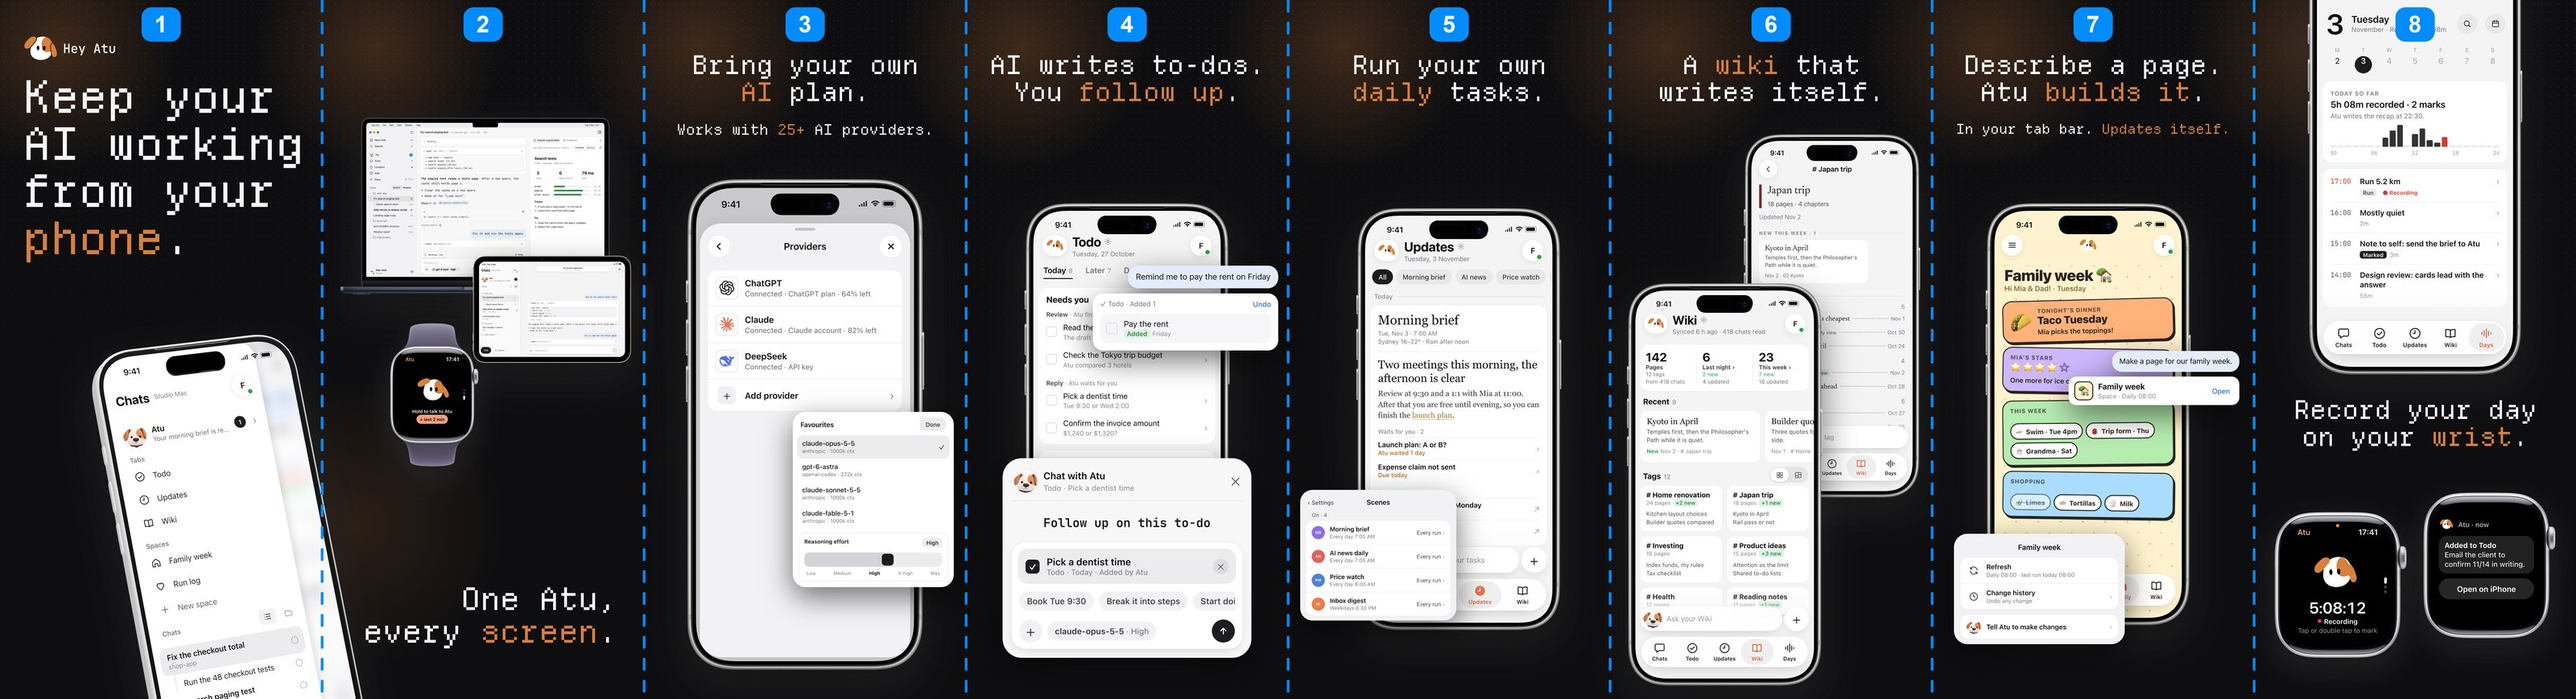
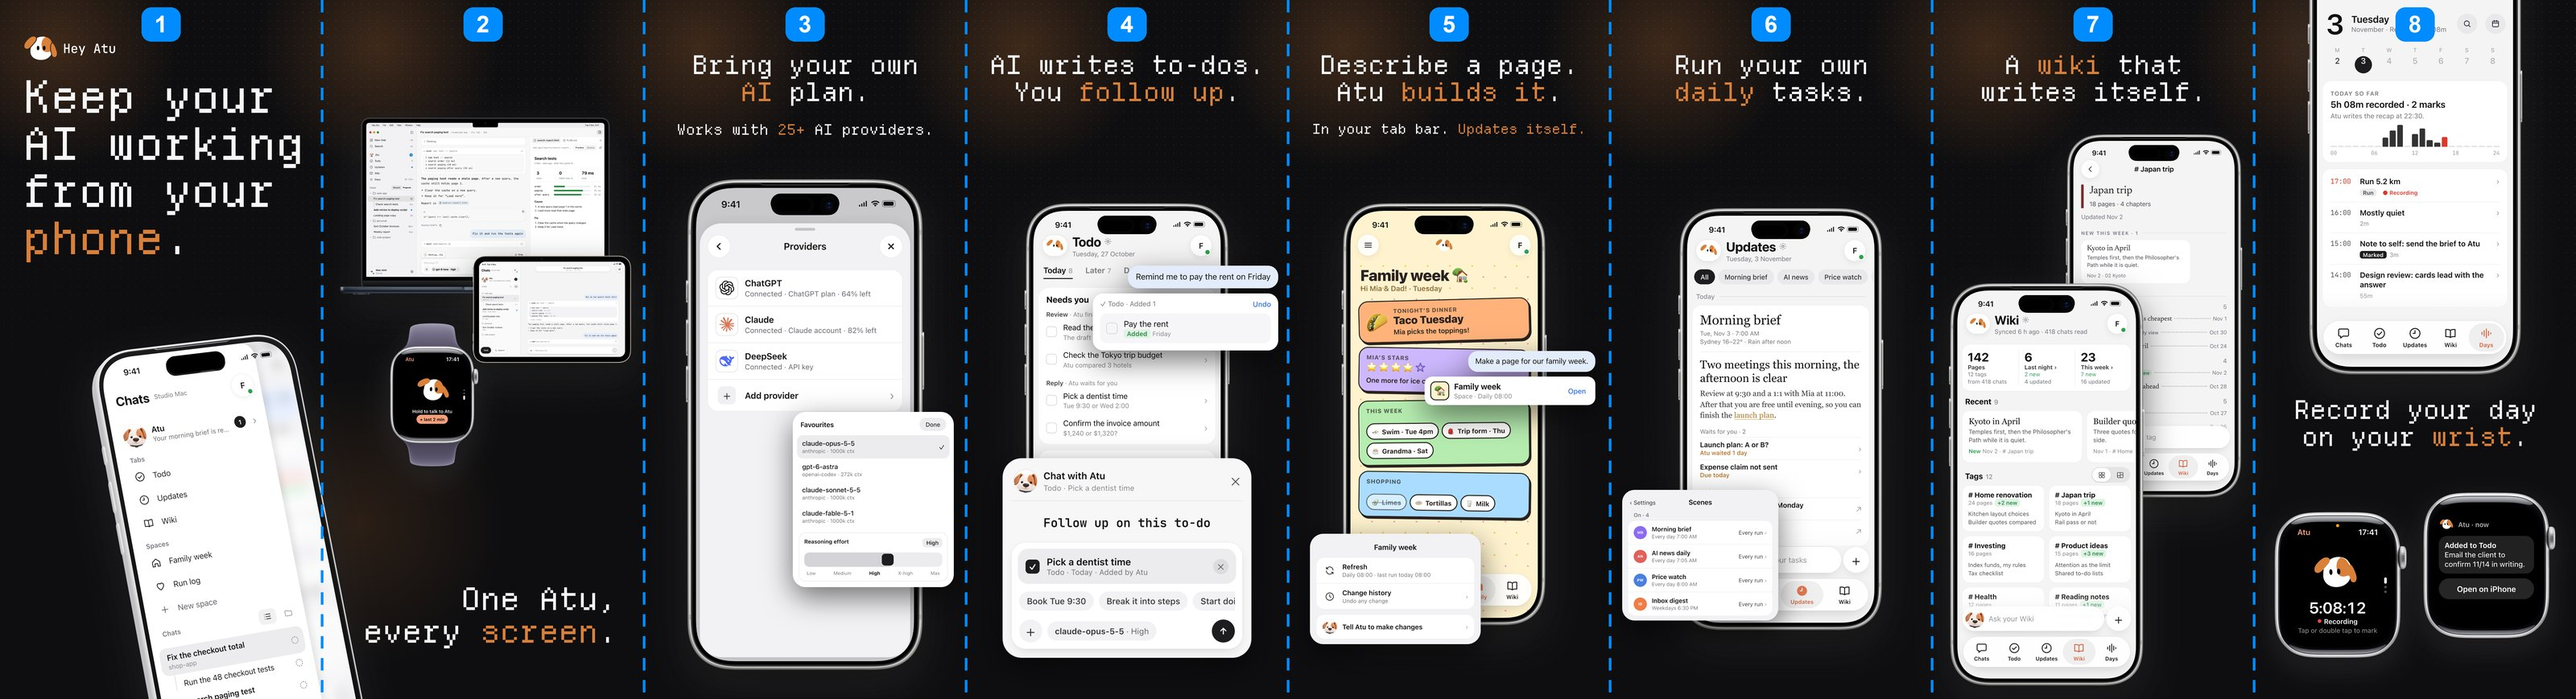
brand: App Store Space page moves up to page 5, after Todo; Daily and Wiki follow

Changed region(s): [[0.5, 0.0621, 0.875, 0.9942], [0.5, 0.0621, 0.5938, 0.1864], [0.625, 0.0621, 0.7188, 0.1554]]

diff --git a/brand/hey-atu-brand-kit/09-generator/appstore-v2/compose_ipad.py b/brand/hey-atu-brand-kit/09-generator/appstore-v2/compose_ipad.py
@@ -16,7 +16,7 @@ KIT = H.parents[1].as_uri()                                    # brand/hey-atu-b
 SITE = (H.parents[3] / 'website' / 'assets').resolve().as_uri()  # website -> ../pi-remote/site
 W, HH, N = 2064, 2752, 7
 TAG = 'ipad-r1'
-NAMES = ['01-opening', '02-everywhere', '03-your-ai', '04-todo', '05-daily', '06-wiki', '07-space']
+NAMES = ['01-opening', '02-everywhere', '03-your-ai', '04-todo', '05-space', '06-daily', '07-wiki']
 FEAT = 150    # feature headline size
 
 
@@ -94,29 +94,29 @@ P4 = ''.join([
     img(f'{S}/scr-followup.png', k + 110, 1830, 1300, z=6),
 ])
 
-# 5 daily tasks: the scenes card pops out
-k = 4 * W
+# 6 daily tasks: the scenes card pops out
+k = 5 * W
 P5 = ''.join([
-    head(4, ['Run your own', '*daily* tasks.']),
-    ipad(4, 'updates', 760),
+    head(5, ['Run your own', '*daily* tasks.']),
+    ipad(5, 'updates', 760),
     img(f'{S}/scr-scenes.png', k + 80, 1900, 900, z=5, cls='card'),
 ])
 
-# 6 wiki: the # Japan trip tag pops out of its card
-k = 5 * W
+# 7 wiki: the # Japan trip tag pops out of its card
+k = 6 * W
 P6 = ''.join([
-    head(5, ['A *wiki* that', 'writes itself.']),
-    ipad(5, 'wiki', 760),
+    head(6, ['A *wiki* that', 'writes itself.']),
+    ipad(6, 'wiki', 760),
     img(f'{S}/scr-gtag.png', k + 560, 1520, 640, z=5, cls='card'),
     img(f'{S}/scr-gn1.png', k + 1330, 2000, 520, z=5, cls='card'),
 ])
 
-# 7 space: the run log, the message and its space card, the space menu (2026-11-09)
-k = 6 * W
+# 5 space: the run log, the message and its space card, the space menu (2026-11-09)
+k = 4 * W
 P7 = ''.join([
-    head(6, ['Describe a page.', 'Atu *builds it*.']),               # app (NativeSpaceNew) and heyatu.com: "page", not "app" (guideline 4.7)
+    head(4, ['Describe a page.', 'Atu *builds it*.']),               # app (NativeSpaceNew) and heyatu.com: "page", not "app" (guideline 4.7)
     text(k, 560, 84, ['In your tab bar. *Updates itself.*'], align='center', width=W),
-    ipad(6, 'space', 860),
+    ipad(4, 'space', 860),
     img(f'{S}/scr-spadd.png', k + 1080, 1740, 900, z=5),
     img(f'{S}/scr-spmenu.png', k + 110, 2080, 900, z=6, cls='card'),
 ])
@@ -145,7 +145,7 @@ body{{-webkit-font-smoothing:antialiased}}
 async def main():
     # Each page is clipped to itself, so nothing runs across a cut.
     pages = ''
-    for i, body in enumerate([P1, P2, P3, P4, P5, P6, P7]):
+    for i, body in enumerate([P1, P2, P3, P4, P7, P5, P6]):   # 5 space, 6 daily, 7 wiki
         bg = ('<div class="dots"></div>'
               f'<div class="glow" style="left:-500px;top:-560px;width:1700px;height:1700px"></div>'
               f'<div class="glow" style="left:900px;top:1500px;width:1700px;height:1700px;opacity:.5"></div>')

diff --git a/brand/hey-atu-brand-kit/09-generator/appstore-v2/compose_c.py b/brand/hey-atu-brand-kit/09-generator/appstore-v2/compose_c.py
@@ -20,7 +20,7 @@ W, HH, N = 1320, 2868, 8
 P1_3D = '--p1-flat' not in sys.argv   # page 1: the 3D phone (real-object style of pages 1-2)
 OPEN = sys.argv[sys.argv.index('--open') + 1] if '--open' in sys.argv else 'F'   # opening version, round 6
 TAG = 'r6' + OPEN.lower()
-NAMES = ['01-opening', '02-everywhere', '03-your-ai', '04-todo', '05-daily', '06-wiki', '07-space', '08-watch']
+NAMES = ['01-opening', '02-everywhere', '03-your-ai', '04-todo', '05-space', '06-daily', '07-wiki', '08-watch']
 FEAT = 106    # feature headline size
 
 
@@ -184,26 +184,26 @@ P4 = ''.join([
     img(f'{S}/scr-followup.png', k + 150, 1880, 1020, z=6),          # follow up, the biggest popout
 ])
 
-# ---- page 5: daily tasks ------------------------------------------------------------------
-k = 4 * W
+# ---- page 6: daily tasks ------------------------------------------------------------------
+k = 5 * W
 P5 = ''.join([
-    head(4, ['Run your own', '*daily* tasks.']),
+    head(5, ['Run your own', '*daily* tasks.']),
     phone('p5-updates', k + 700, 1720 - 879),
     img(f'{S}/scr-scenes.png', k + 50, 2010, 640, z=5, cls='card'),
 ])
 
-# ---- page 6: wiki: the home in front, the # Japan trip page behind it ---------------------
-k = 5 * W
+# ---- page 7: wiki: the home in front, the # Japan trip page behind it ---------------------
+k = 6 * W
 P6 = ''.join([
-    head(5, ['A *wiki* that', 'writes itself.']),
+    head(6, ['A *wiki* that', 'writes itself.']),
     phone('p6-jtrip', k + 910, 540, 740, z=2),
     phone('p6-wiki', k + 470, 1150, 820, z=3),
 ])
 
-# ---- page 7: a space: Atu makes a page from one message and keeps it up to date ---------------
-k = 6 * W
+# ---- page 5: a space: Atu makes a page from one message and keeps it up to date ---------------
+k = 4 * W
 P7 = ''.join([
-    head(6, ['Describe a page.', 'Atu *builds it*.']),               # app (NativeSpaceNew) and heyatu.com: "page", not "app" (guideline 4.7)
+    head(4, ['Describe a page.', 'Atu *builds it*.']),               # app (NativeSpaceNew) and heyatu.com: "page", not "app" (guideline 4.7)
     text(k, 500, 56, ['In your tab bar. *Updates itself.*'], align='center', width=W),
     phone('p7-space', k + 640, 821),
     img(f'{S}/scr-spadd.png', k + 560, 1440, 700, z=5),              # the message and the space card in the chat

diff --git a/brand/hey-atu-brand-kit/09-generator/appstore-v2/README.md b/brand/hey-atu-brand-kit/09-generator/appstore-v2/README.md
@@ -51,7 +51,7 @@
 
 ## iPad 版（2026-11-08）
 
-照 Otter：iPhone 的第 1–7 张（第 7 张是 Space，2026-11-09），同样的标题和弹出卡片（不放手表：没有手表页，第 2 张也去掉手表，Xinyi 2026-11-08），手机换成正放的 iPad Pro 13 寸（竖屏），每张单独成图、不跨页。
+照 Otter：iPhone 的第 1–7 张（第 5 张是 Space，排在 Todo 后面，2026-11-09），同样的标题和弹出卡片（不放手表：没有手表页，第 2 张也去掉手表，Xinyi 2026-11-08），手机换成正放的 iPad Pro 13 寸（竖屏），每张单独成图、不跨页。
 iPad 界面在 `screens.html` 的 `ip-*`，按 App 的宽屏布局还原（`NativeAppView`：宽度 ≥ 1024 pt）：Chats 带 280 pt 侧栏，
 Updates 的侧栏是信息源，Todo 右边 300 pt 是 Later，Wiki 一排四个标签，标签栏在顶部。拼图脚本 `compose_ipad.py`。
 定稿复制到 `03-stores/app-store/04-ipad-13in-2064x2752/`。
